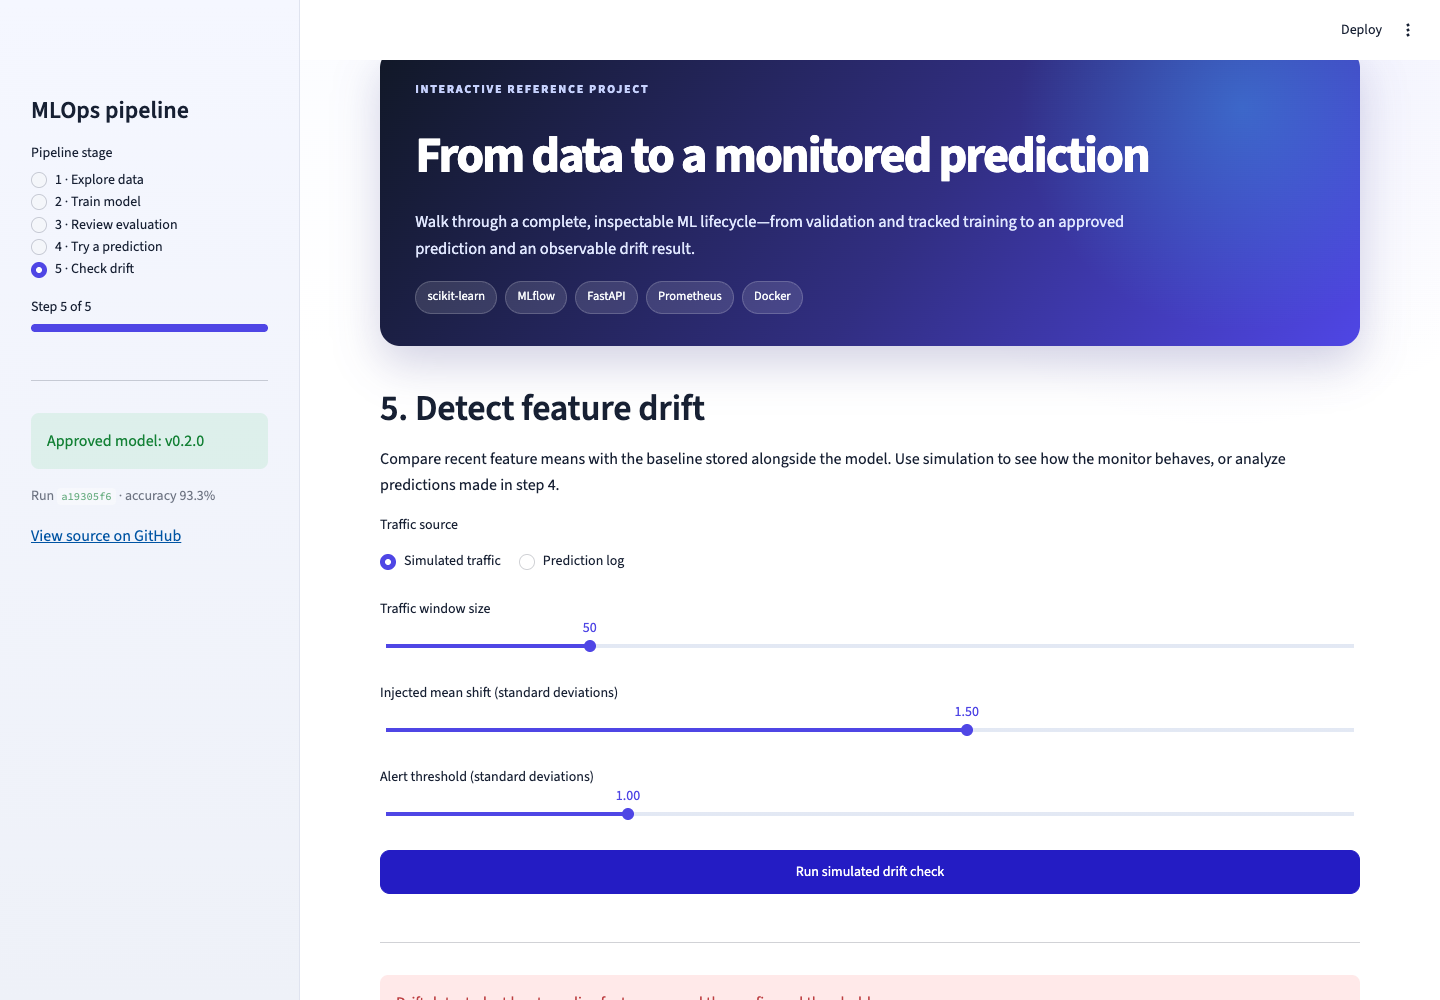
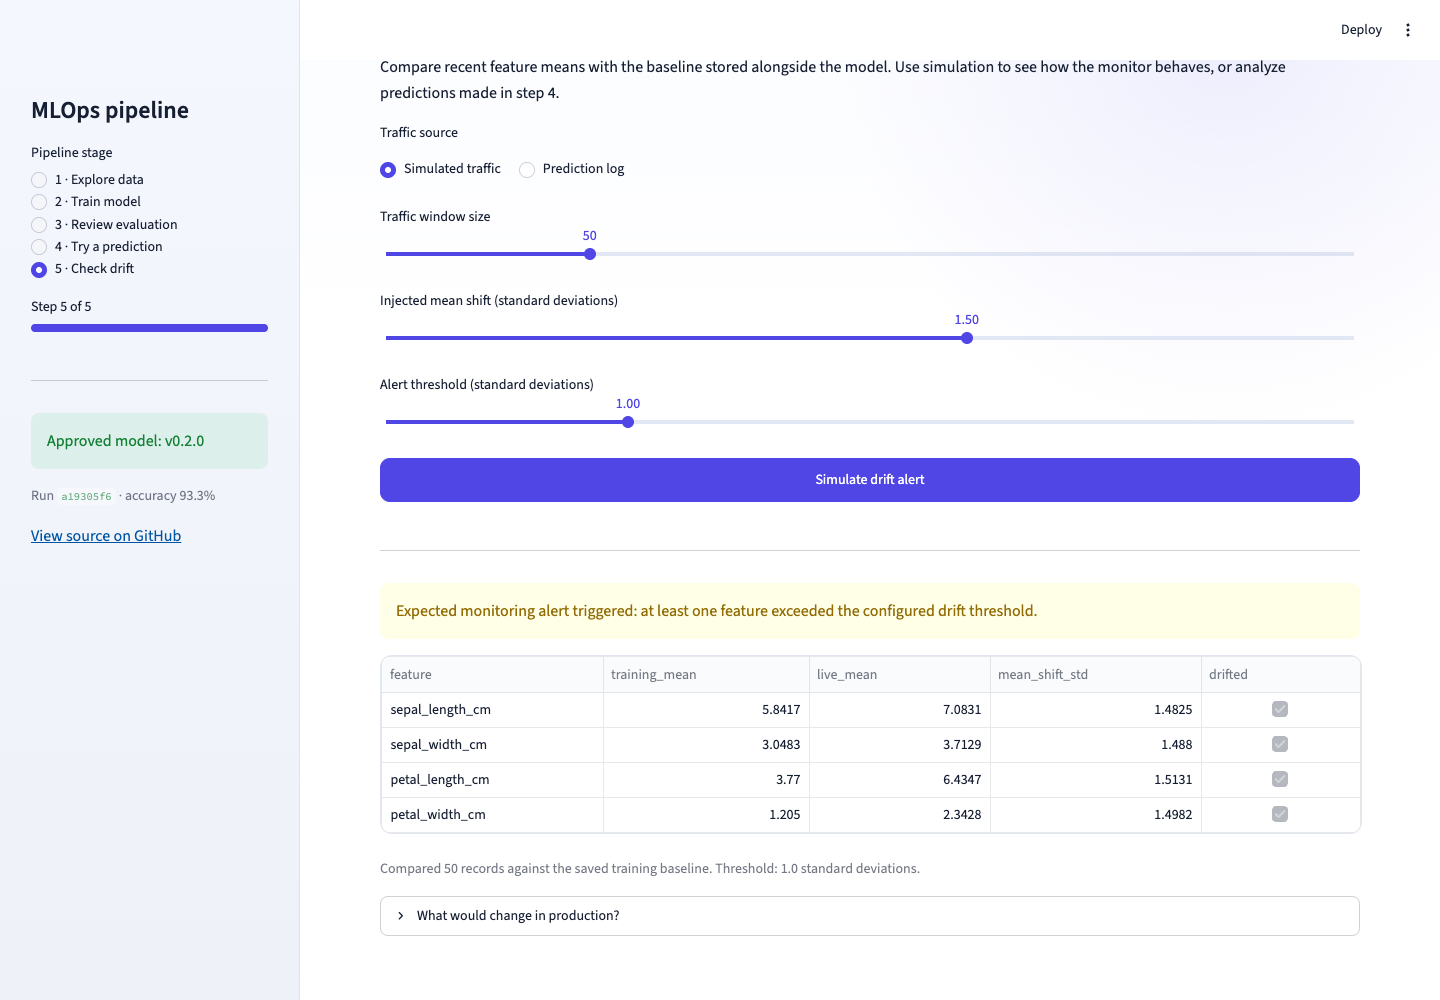
Clarify simulated drift alert in walkthrough

Changed region(s): [[0.25, 0.062, 0.9688, 0.527], [0.25, 0.558, 0.9688, 0.93], [0.2812, 0.992, 0.3125, 1.0]]

diff --git a/src/mlops_demo/ui.py b/src/mlops_demo/ui.py
@@ -362,9 +362,14 @@ def _try_prediction(bundle: ModelBundle | None) -> None:
         st.caption("This prediction was appended to the local monitoring log used in step 5.")
 
 
-def _render_drift_report(report: dict[str, object]) -> None:
+def _render_drift_report(report: dict[str, object], *, simulated: bool = False) -> None:
     if report["drift_detected"]:
-        st.error("Drift detected: at least one live feature crossed the configured threshold.")
+        prefix = (
+            "Expected monitoring alert triggered" if simulated else "Monitoring alert triggered"
+        )
+        st.warning(
+            f"{prefix}: at least one feature exceeded the configured drift threshold."
+        )
     else:
         st.success("No drift detected for this traffic window.")
     drift_frame = pd.DataFrame(report["features"]).T.reset_index(names="feature")
@@ -391,7 +396,7 @@ def _check_drift(bundle: ModelBundle | None) -> None:
         sample_count = st.slider("Traffic window size", 10, 200, 50, 10)
         shift = st.slider("Injected mean shift (standard deviations)", 0.0, 2.5, 1.5, 0.1)
         threshold = st.slider("Alert threshold (standard deviations)", 0.5, 2.5, 1.0, 0.1)
-        if st.button("Run simulated drift check", type="primary", width="stretch"):
+        if st.button("Simulate drift alert", type="primary", width="stretch"):
             records = simulate_prediction_records(bundle, sample_count, shift)
             st.session_state["drift_report"] = calculate_drift(
                 bundle,
@@ -414,7 +419,7 @@ def _check_drift(bundle: ModelBundle | None) -> None:
     report = st.session_state.get("drift_report")
     if report:
         st.divider()
-        _render_drift_report(report)
+        _render_drift_report(report, simulated=source == "Simulated traffic")
 
     with st.expander("What would change in production?"):
         st.markdown(

diff --git a/scripts/capture_ui.py b/scripts/capture_ui.py
@@ -47,9 +47,13 @@ def main() -> None:
         _screenshot(page, args.output / "ui-prediction.png")
 
         page.get_by_text("5 · Check drift", exact=True).click()
-        page.get_by_role("button", name="Run simulated drift check").click()
-        page.get_by_text("Drift detected", exact=False).wait_for()
-        _screenshot(page, args.output / "ui-drift.png")
+        page.get_by_role("button", name="Simulate drift alert").click()
+        alert = page.get_by_text("Expected monitoring alert triggered", exact=False)
+        alert.wait_for()
+        alert.evaluate("element => element.scrollIntoView({block: 'center'})")
+        page.evaluate("window.scrollBy(0, -100)")
+        page.wait_for_timeout(500)
+        page.screenshot(path=args.output / "ui-drift.png", full_page=False)
         browser.close()
 
 

diff --git a/tests/test_ui.py b/tests/test_ui.py
@@ -40,4 +40,4 @@ def test_guided_ui_walkthrough(
     app.sidebar.radio[0].set_value(STAGES[4]).run()
     app.button[0].click().run()
     assert not app.exception
-    assert any("Drift detected" in message.value for message in app.error)
+    assert any("Expected monitoring alert triggered" in message.value for message in app.warning)
